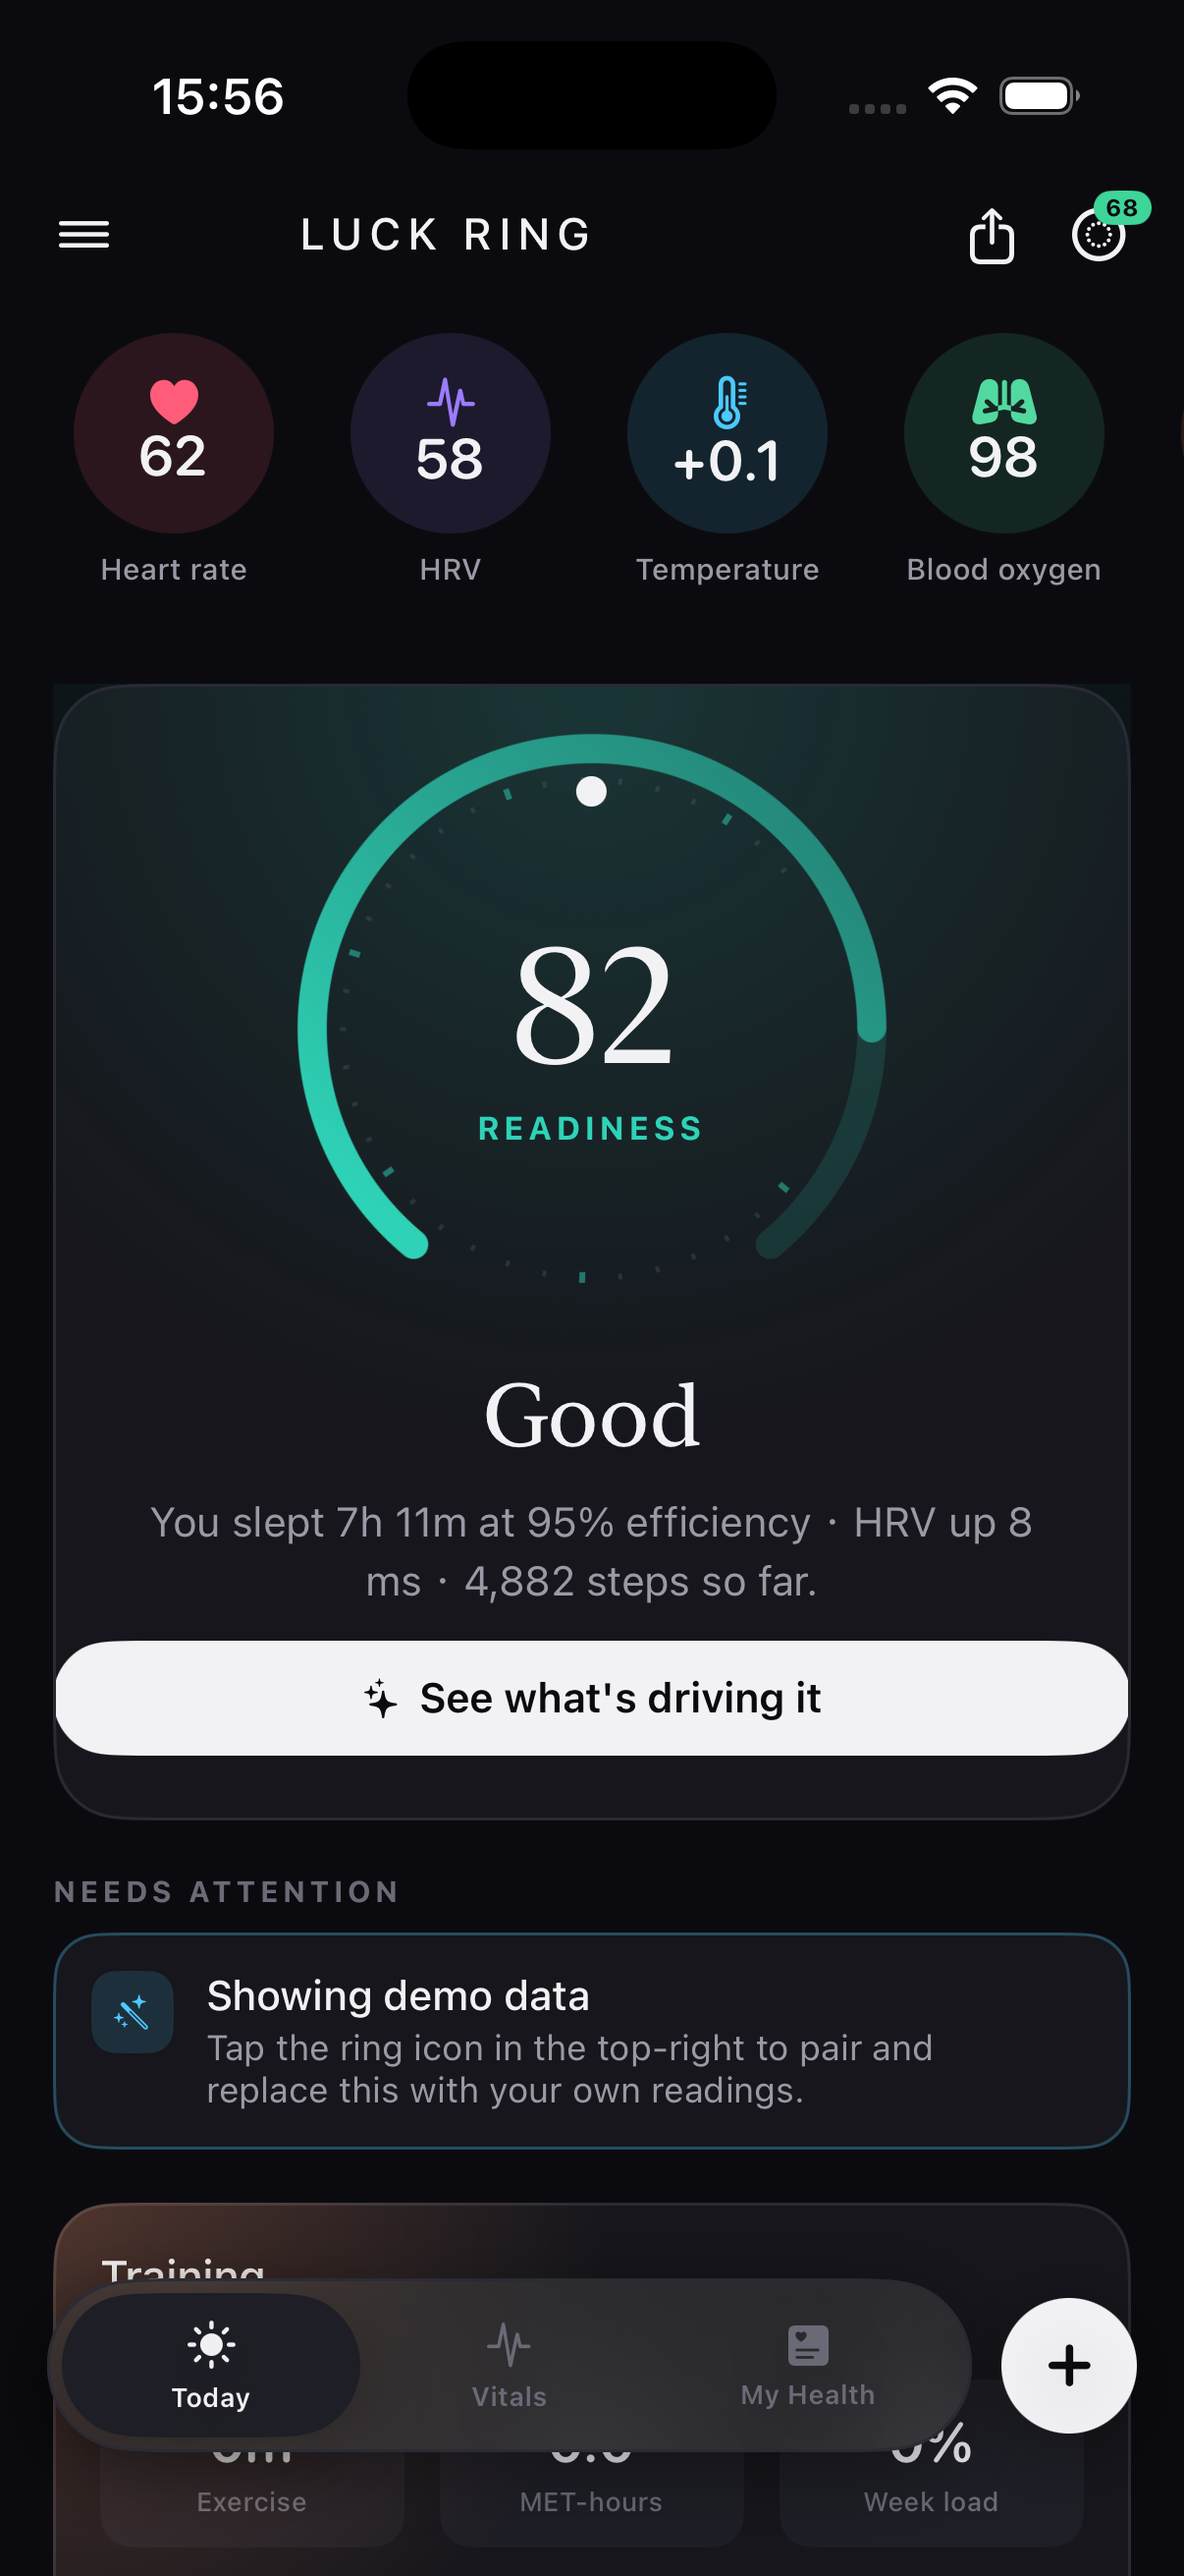
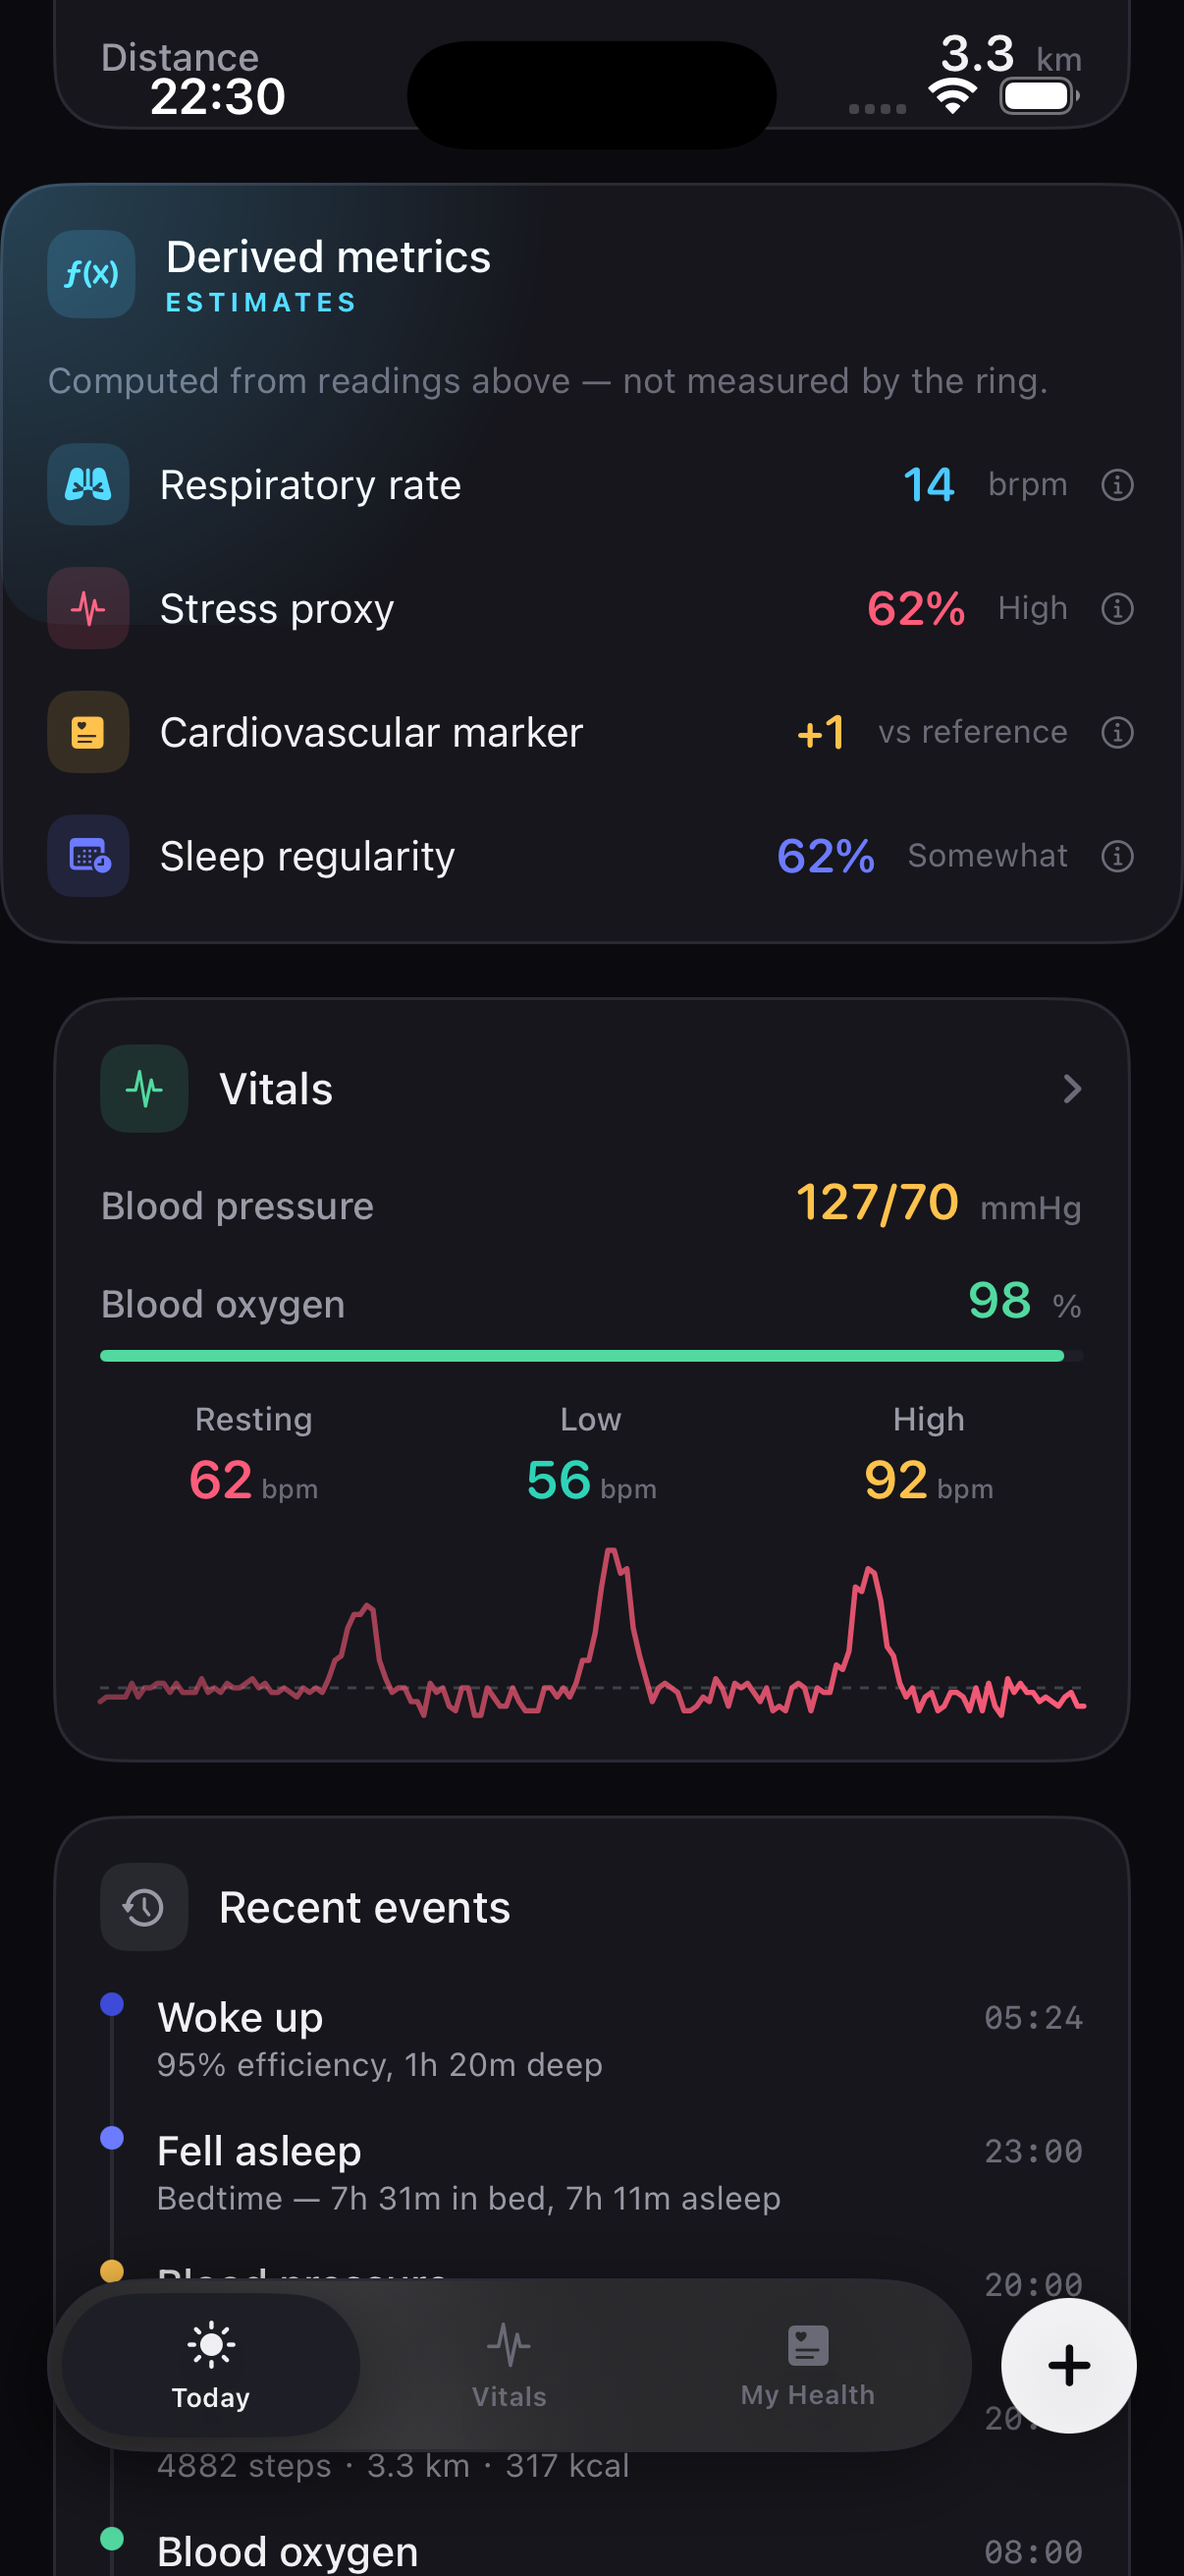
Fix the README grid, and make a ragged row impossible to commit
The last row of the screenshot grid held one image and two empty cells, and
today-detail.png - which the asset script had been generating for several rounds -
appeared in no README at all. The Chinese README was three tiles further behind
still.

Grid
  Eight tiles, two rows of four, every generated screenshot referenced by both
  READMEs. The Chinese README was catching up too: it still described "three tabs"
  and had none of the period screens.

Guard
  make-readme-assets.py now owns the tile list and checks both READMEs against it,
  failing if a README points at a file that is not there and if a generated tile is
  referenced nowhere. Both directions matter: a broken src renders as a gap, and an
  unreferenced tile means a screen was captured and quietly dropped.

  Verified by breaking each case on purpose:
    README.md references a missing image: docs/images/vitals-typo.png
    README.md never shows the generated tile data.png
  Wired into CI as a fourth job, so this cannot come back quietly.

The duplicate screenshot
  today-detail.png was byte-identical to today-top.png. -todayAnchor middle had
  never worked: TodayAnchor mapped .middle to plain `content`, and
  defaultScrollAnchor can only express top and bottom, so the argument silently did
  nothing. Two named ids and an explicit scrollTo now drive it, and the tile shows
  the derived-metrics card and the vitals trace.

  Caught by comparing the two tiles pixel-for-pixel after wiring up the checker -
[…]

diff --git a/ios/Sources/Views/TodayView.swift b/ios/Sources/Views/TodayView.swift
@@ -17,6 +17,7 @@ struct TodayView: View {
     private var day: DailySnapshot? { store.selectedDay }
 
     var body: some View {
+        ScrollViewReader { proxy in
         ScrollView {
             VStack(spacing: 18) {
                 header
@@ -28,11 +29,13 @@ struct TodayView: View {
                     heroCard
                     actionItems
                     trainingCard
+                        .id("training")
                     if let day {
                         if let sleep = day.sleep { sleepCard(day, sleep) }
                         readinessCard(day)
                         activityCard(day)
                         DerivedMetricsCard(store: store)
+                            .id("derived")
                         vitalsCard(day)
                         timelineCard(day)
                     }
@@ -45,6 +48,25 @@ struct TodayView: View {
         .refreshable { store.refresh() }
         .sheet(isPresented: $showTraining) { WorkoutSheet(store: store) }
         .sheet(isPresented: $showShare) { ShareTemplateSheet(store: store) }
+        .onAppear { scrollToLaunchAnchor(proxy) }
+        }
+    }
+
+    /// `defaultScrollAnchor` only expresses top and bottom, so the mid-scroll
+    /// capture needs an explicit scroll target. Two hops are required: the first
+    /// runs before the scroll view has a content size, so only the second lands.
+    private func scrollToLaunchAnchor(_ proxy: ScrollViewProxy) {
+        let anchor = TodayView.launchAnchor
+        guard anchor != .top else { return }
+        // Both anchors name a real element: "derived" for the mid-scroll capture,
+        // "training" for the bottom one.
+        let target = anchor == .middle ? "derived" : "training"
+        DispatchQueue.main.async {
+            withAnimation(.none) { proxy.scrollTo(target, anchor: .top) }
+            DispatchQueue.main.asyncAfter(deadline: .now() + 0.3) {
+                withAnimation(.none) { proxy.scrollTo(target, anchor: .top) }
+            }
+        }
     }
 
     // MARK: - Header

diff --git a/ios/Sources/Views/LaunchOptions.swift b/ios/Sources/Views/LaunchOptions.swift
@@ -15,12 +15,11 @@ struct TodayAnchor: ViewModifier {
 
     let anchor: Anchor
 
+    /// Only expresses the top position. `.middle` and `.bottom` are handled by an
+    /// explicit `scrollTo` in TodayView, because `defaultScrollAnchor` has no way to
+    /// name a mid-scroll target.
     func body(content: Content) -> some View {
-        switch anchor {
-        case .top: content.defaultScrollAnchor(.top)
-        case .middle: content
-        case .bottom: content.defaultScrollAnchor(.bottom)
-        }
+        content.defaultScrollAnchor(.top)
     }
 }
 

diff --git a/scripts/make-readme-assets.py b/scripts/make-readme-assets.py
@@ -228,15 +228,81 @@ def build_banner(screens=("today-top", "vitals", "health")):
 
 # ------------------------------------------------------------------- tiles
 
+# Single source of truth for the screenshot set. The README grid is checked
+# against this list, so adding a screen here and forgetting the README fails loudly
+# instead of leaving a ragged row behind.
+TILES = [
+    "today-top",
+    "today-detail",
+    "sleep-detail",
+    "vitals",
+    "health",
+    "data",
+    "period",
+    "period-calendar",
+]
+
+READMES = ["README.md", "README.zh-CN.md"]
+
 
 def build_tiles():
-    for name in ["today-top", "today-detail", "sleep-detail", "vitals", "health",
-                 "data", "period", "period-calendar"]:
+    for name in TILES:
         shot = load_screen(name, 420)
         shot.save(os.path.join(OUT, name + ".png"), optimize=True)
         print("wrote docs/images/%s.png" % name)
 
 
+def referenced_images(text):
+    """Every docs/images/... path a README points at."""
+    import re
+
+    return set(re.findall(r'src="(docs/images/[^"]+)"', text))
+
+
+def verify_readme_images():
+    """Fail if a README points at a missing file, or a generated tile goes unused.
+
+    Both halves matter. A broken src renders as a gap in the grid, and a tile
+    nobody references means a screen was captured and then quietly dropped from
+    the README - which is exactly how the last row ended up holding one image.
+    """
+    import re
+
+    problems = []
+    referenced = {}
+
+    for readme in READMES:
+        path = os.path.join(ROOT, readme)
+        if not os.path.exists(path):
+            problems.append("missing README: %s" % readme)
+            continue
+        with open(path, encoding="utf-8") as handle:
+            refs = referenced_images(handle.read())
+        referenced[readme] = refs
+
+        for ref in sorted(refs):
+            # The hero banner is generated separately below.
+            if not os.path.exists(os.path.join(ROOT, ref)):
+                problems.append("%s references a missing image: %s" % (readme, ref))
+
+    generated = {"docs/images/%s.png" % name for name in TILES}
+    for readme, refs in referenced.items():
+        for unused in sorted(generated - refs):
+            problems.append(
+                "%s never shows the generated tile %s" % (readme, os.path.basename(unused))
+            )
+
+    if not os.path.exists(os.path.join(OUT, "banner.jpg")):
+        problems.append("README hero banner docs/images/banner.jpg is missing")
+
+    if problems:
+        raise SystemExit(
+            "README image check failed:\n  - " + "\n  - ".join(problems)
+        )
+    print("README images: %d tiles referenced by all %d READMEs" % (len(TILES), len(READMES)))
+
+
 if __name__ == "__main__":
     build_banner()
     build_tiles()
+    verify_readme_images()

diff --git a/README.md b/README.md
@@ -23,21 +23,17 @@
 
 <div align="center">
 
-| Today | Sleep detail | Vitals |
-|:---:|:---:|:---:|
-| <img src="docs/images/today-top.png" width="230"> | <img src="docs/images/sleep-detail.png" width="230"> | <img src="docs/images/vitals.png" width="230"> |
+| Today | Sleep detail | Vitals | My Health |
+|:---:|:---:|:---:|:---:|
+| <img src="docs/images/today-top.png" width="200"> | <img src="docs/images/sleep-detail.png" width="200"> | <img src="docs/images/vitals.png" width="200"> | <img src="docs/images/health.png" width="200"> |
 
-| My Health | Week & month | Month calendar |
-|:---:|:---:|:---:|
-| <img src="docs/images/health.png" width="230"> | <img src="docs/images/period.png" width="230"> | <img src="docs/images/period-calendar.png" width="230"> |
-
-| Your data | | |
-|:---:|:---:|:---:|
-| <img src="docs/images/data.png" width="230"> | | |
+| Week & month | Month calendar | Today, scrolled | Your data |
+|:---:|:---:|:---:|:---:|
+| <img src="docs/images/period.png" width="200"> | <img src="docs/images/period-calendar.png" width="200"> | <img src="docs/images/today-detail.png" width="200"> | <img src="docs/images/data.png" width="200"> |
 
 </div>
 
-<div align="center"><sub>Three tabs, mirroring the structure health apps converge on — screenshots from the demo target, no ring required</sub></div>
+<div align="center"><sub>Eight screens from the demo target — no ring required. Screenshots are simulator captures, generated by <code>scripts/make-readme-assets.py</code></sub></div>
 
 ---
 

diff --git a/README.zh-CN.md b/README.zh-CN.md
@@ -23,17 +23,17 @@
 
 <div align="center">
 
-| 今日 | 睡眠详情 | 生命体征 |
-|:---:|:---:|:---:|
-| <img src="docs/images/today-top.png" width="230"> | <img src="docs/images/sleep-detail.png" width="230"> | <img src="docs/images/vitals.png" width="230"> |
+| 今日 | 睡眠详情 | 生命体征 | 我的健康 |
+|:---:|:---:|:---:|:---:|
+| <img src="docs/images/today-top.png" width="200"> | <img src="docs/images/sleep-detail.png" width="200"> | <img src="docs/images/vitals.png" width="200"> | <img src="docs/images/health.png" width="200"> |
 
-| 我的健康 | 你的数据 | |
-|:---:|:---:|:---:|
-| <img src="docs/images/health.png" width="230"> | <img src="docs/images/data.png" width="230"> |
+| 周与月 | 月历 | 今日（下滑） | 你的数据 |
+|:---:|:---:|:---:|:---:|
+| <img src="docs/images/period.png" width="200"> | <img src="docs/images/period-calendar.png" width="200"> | <img src="docs/images/today-detail.png" width="200"> | <img src="docs/images/data.png" width="200"> |
 
 </div>
 
-<div align="center"><sub>三个 tab，沿用健康类 App 的通用信息架构 —— 截图来自 demo target，不需要戒指在场</sub></div>
+<div align="center"><sub>demo target 的八个界面 —— 不需要戒指在场。截图为模拟器抓图，由 <code>scripts/make-readme-assets.py</code> 生成</sub></div>
 
 ---
 
